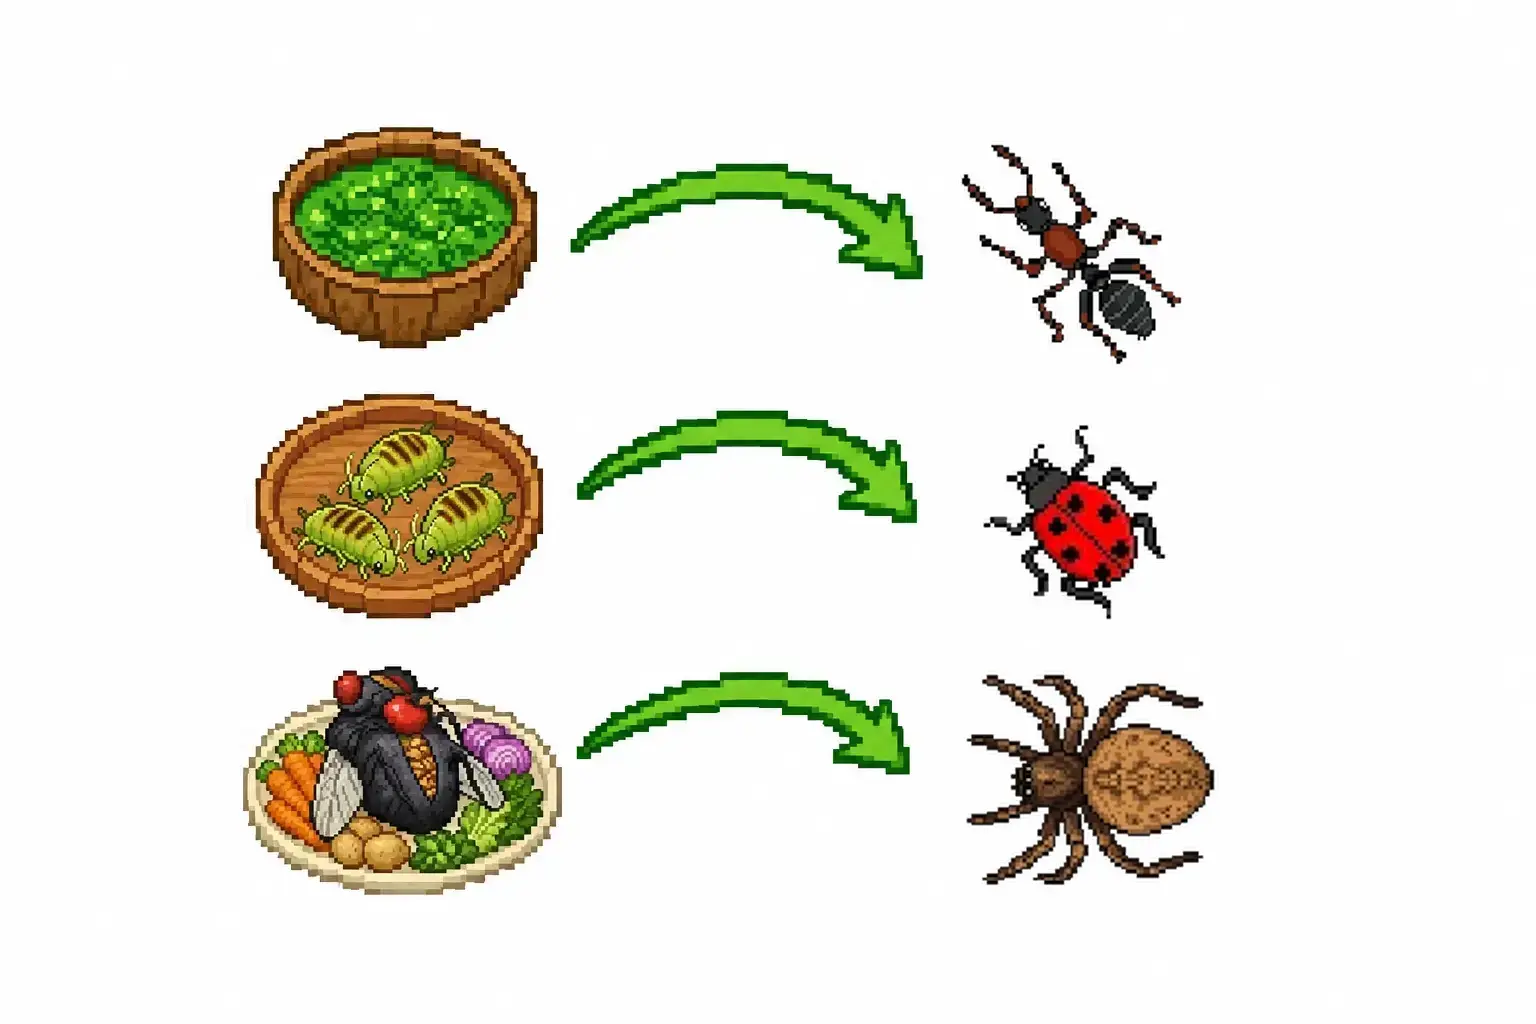
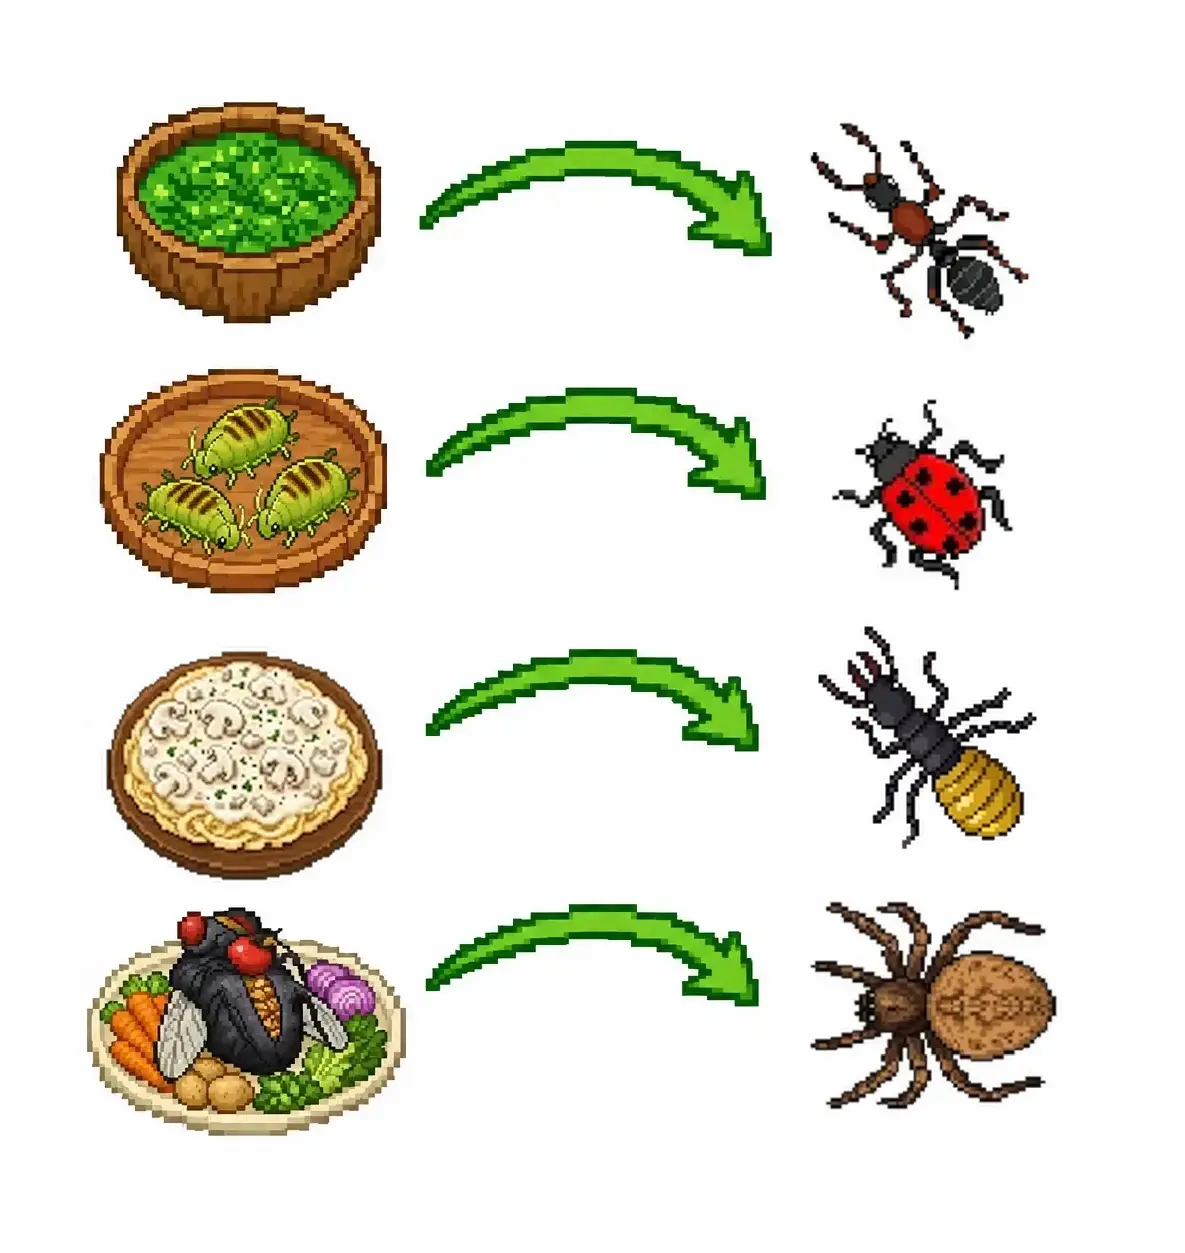
feat: more dialoges, mushrooms and first termite

diff --git a/apps/frontend/src/hooks/useBoardStateDialogues.ts b/apps/frontend/src/hooks/useBoardStateDialogues.ts
@@ -4,7 +4,9 @@ import { findAnthillOnBoard } from "../components/helpers/dialogues/findAnthillO
 import { findBrickOnBoard } from "../components/helpers/dialogues/findBrickOnBoard";
 import { findBuiltAxeOnBoard } from "../components/helpers/dialogues/findBuiltAxeOnBoard";
 import { findBuiltBeetleHouseOnBoard } from "../components/helpers/dialogues/findBuiltBeetleHouseOnBoard";
+import { findBuiltFarmOnBoard } from "../components/helpers/dialogues/findBuiltFarmOnBoard";
 import { findBuiltKitchenOnBoard } from "../components/helpers/dialogues/findBuiltKitchenOnBoard";
+import { findBuiltMushroomsFieldOnBoard } from "../components/helpers/dialogues/findBuiltMushroomsFieldOnBoard";
 import { findBuiltTavernOnBoard } from "../components/helpers/dialogues/findBuiltTavernOnBoard";
 import { findBuiltWoodcutterOnBoard } from "../components/helpers/dialogues/findBuiltWoodcutterOnBoard";
 import { findBuiltWorkshopOnBoard } from "../components/helpers/dialogues/findBuiltWorkshopOnBoard";
@@ -19,6 +21,8 @@ import { hasClayOnBoard } from "../components/helpers/dialogues/hasClayOnBoard";
 import { hasGreenflyOnBoard } from "../components/helpers/dialogues/hasGreenflyOnBoard";
 import { hasIronOreOnBoard } from "../components/helpers/dialogues/hasIronOreOnBoard";
 import { hasLeafAndBeetleOnBoard } from "../components/helpers/dialogues/hasLeafAndBeetleOnBoard";
+import { hasMushroomOnBoard } from "../components/helpers/dialogues/hasMushroomOnBoard";
+import { hasTermiteOnBoard } from "../components/helpers/dialogues/hasTermiteOnBoard";
 import { isStartingBoardState } from "../components/helpers/dialogues/isStartingBoardState";
 import { Dialogue } from "../types/dialogue";
 import { GridEntity } from "../types/gridEntity";
@@ -27,6 +31,7 @@ import {
   buildBeetleHouseDialogue,
   buildFarmDialogue,
   buildKitchenDialogue,
+  buildMushroomFieldDialogue,
   buildStonemasonDialogue,
   buildTavernDialogue,
   buildWoodcutterDialogue,
@@ -39,6 +44,9 @@ import {
   firstGreenflyDialogue,
   firstIronOreDialogue,
   firstLadybugDialogue,
+  firstMushroomDialogue,
+  firstTermiteDialogue,
+  mushroomFieldDialogue,
   stonemasonUpgradedDialogue,
   welcomeDialogue,
   woodcutterUpgradedDialogue,
@@ -157,6 +165,24 @@ export function useBoardStateDialogues({
 
     const upgradedWoodcutter = findUpgradedWoodcutterOnBoard(entities);
     if (upgradedWoodcutter && showDialogueIfNotVisited(woodcutterUpgradedDialogue())) {
+      return;
+    }
+
+    const farm = findBuiltFarmOnBoard(entities);
+    if (farm && showDialogueIfNotVisited(buildMushroomFieldDialogue(farm.id))) {
+      return;
+    }
+
+    const mushroomsField = findBuiltMushroomsFieldOnBoard(entities);
+    if (mushroomsField && showDialogueIfNotVisited(mushroomFieldDialogue())) {
+      return;
+    }
+
+    if (hasMushroomOnBoard(entities) && showDialogueIfNotVisited(firstMushroomDialogue())) {
+      return;
+    }
+
+    if (hasTermiteOnBoard(entities) && showDialogueIfNotVisited(firstTermiteDialogue())) {
       return;
     }
   }, [allEntitiesLoaded, entities, showDialogueIfNotVisited, activeDialogue]);

diff --git a/apps/frontend/src/utils/dialogue.ts b/apps/frontend/src/utils/dialogue.ts
@@ -14,6 +14,7 @@ import { BricksProductionInfographic } from "../components/dialogue/BricksProduc
 import { CookingListInfographic } from "../components/dialogue/CookingListInfographic";
 import { HungryBugInfographic } from "../components/dialogue/HungryBugInfographic";
 import { LeafToBeetleInfographic } from "../components/dialogue/LeafToBeetleInfographic";
+import { PaperToMushroomInfographic } from "../components/dialogue/PaperToMushroomInfographic";
 import { ProcessIronInfographic } from "../components/dialogue/ProcessIronInfographic";
 import { StackingItemsInfographic } from "../components/dialogue/StackingItemsInfographic";
 import { StickToHoleInfographic } from "../components/dialogue/StickToHoleInfographic";
@@ -301,6 +302,40 @@ export function woodcutterUpgradedDialogue(): Dialogue {
   };
 }
 
+export function buildMushroomFieldDialogue(farmId: string): Dialogue {
+  return {
+    id: "buildMushroomField",
+    text: "Excellent! Thanks to this farm, we can produce our own types of food. Click on the farm and build a mushroom field.",
+    bugType: "ladybug",
+    cursorEntityId: farmId,
+  };
+}
+
+export function mushroomFieldDialogue(): Dialogue {
+  return {
+    id: "mushroomField",
+    text: "The mushrooms will grow on this field if you fertilize it with scraps of paper.",
+    bugType: "ladybug",
+    infographic: createElement(PaperToMushroomInfographic),
+  };
+}
+
+export function firstMushroomDialogue(): Dialogue {
+  return {
+    id: "firstMushroom",
+    text: "Ah, finally! The mushrooms are loved by termites. Let's attract some of them. You must upgrade the kitchen first in order to prepare mushroom sauce.",
+    bugType: "ladybug",
+  };
+}
+
+export function firstTermiteDialogue(): Dialogue {
+  return {
+    id: "firstTermite",
+    text: "Good morning, sir! I've heard about this place and was eager to see it. This town is so lovely and there is so much work to be done here. Let me suggest that termites are much better in tunneling than ants. If we could... improve their anthill into termite mound, we would be able to dig deeper making this land more fertile and provide better items for you. Just drop three of us into the anthill and that should do it.",
+    bugType: "termite",
+  };
+}
+
 export function cannotBuildDialogue(reason: CannotBuildReason): Dialogue {
   switch (reason) {
     case "noSpace":
@@ -344,6 +379,8 @@ export function structureClickDialogue(structure: Structure): Dialogue | null {
       return tavernListDialogue();
     case "smelter":
       return smelterDialogue();
+    case "mushrooms_field":
+      return mushroomFieldDialogue();
     default:
       return null;
   }

diff --git a/apps/frontend/src/components/helpers/dialogues/findBuiltFarmOnBoard.ts b/apps/frontend/src/components/helpers/dialogues/findBuiltFarmOnBoard.ts
@@ -1,0 +1,15 @@
+import { isStructureBuilt, isStructurePowered } from "@happy-little-bug-town/utils";
+
+import { GridEntity } from "../../../types/gridEntity";
+import { Structure } from "../../../types/structure";
+import { isStructure } from "../typeGuards";
+
+export function findBuiltFarmOnBoard(entities: GridEntity[]): Structure | undefined {
+  return entities.find(
+    (entity): entity is Structure =>
+      isStructure(entity) &&
+      entity.structureType === "farm" &&
+      isStructureBuilt(entity) &&
+      isStructurePowered(entity),
+  );
+}

diff --git a/apps/frontend/src/components/helpers/dialogues/findBuiltMushroomsFieldOnBoard.ts b/apps/frontend/src/components/helpers/dialogues/findBuiltMushroomsFieldOnBoard.ts
@@ -1,0 +1,12 @@
+import { isStructureBuilt } from "@happy-little-bug-town/utils";
+
+import { GridEntity } from "../../../types/gridEntity";
+import { Structure } from "../../../types/structure";
+import { isStructure } from "../typeGuards";
+
+export function findBuiltMushroomsFieldOnBoard(entities: GridEntity[]): Structure | undefined {
+  return entities.find(
+    (entity): entity is Structure =>
+      isStructure(entity) && entity.structureType === "mushrooms_field" && isStructureBuilt(entity),
+  );
+}

diff --git a/apps/frontend/src/components/dialogue/PaperToMushroomInfographic.tsx b/apps/frontend/src/components/dialogue/PaperToMushroomInfographic.tsx
@@ -1,0 +1,16 @@
+import Image from "next/image";
+
+export function PaperToMushroomInfographic() {
+  return (
+    <figure className="m-0 w-[48cqi]">
+      <Image
+        src="/dialogues/paper-to-mushroom.webp"
+        alt="Fertilize the mushroom field with scraps of paper"
+        width={1536}
+        height={1024}
+        sizes="48cqi"
+        className="h-auto w-full"
+      />
+    </figure>
+  );
+}

diff --git a/apps/utils/src/typeGuards/dialogue.ts b/apps/utils/src/typeGuards/dialogue.ts
@@ -24,5 +24,9 @@ export function isOnceDialogueId(value: unknown): value is OnceDialogueId {
     "buildFarm",
     "stonemasonUpgraded",
     "woodcutterUpgraded",
+    "buildMushroomField",
+    "mushroomField",
+    "firstMushroom",
+    "firstTermite",
   ].includes(value as string);
 }

diff --git a/apps/frontend/src/components/helpers/dialogues/hasMushroomOnBoard.ts b/apps/frontend/src/components/helpers/dialogues/hasMushroomOnBoard.ts
@@ -1,0 +1,6 @@
+import { GridEntity } from "../../../types/gridEntity";
+import { isItem } from "../typeGuards";
+
+export function hasMushroomOnBoard(entities: GridEntity[]): boolean {
+  return entities.some((entity) => isItem(entity) && entity.itemType === "mushroom");
+}

diff --git a/apps/frontend/src/components/helpers/dialogues/hasTermiteOnBoard.ts b/apps/frontend/src/components/helpers/dialogues/hasTermiteOnBoard.ts
@@ -1,0 +1,6 @@
+import { GridEntity } from "../../../types/gridEntity";
+import { isBug } from "../typeGuards";
+
+export function hasTermiteOnBoard(entities: GridEntity[]): boolean {
+  return entities.some((entity) => isBug(entity) && entity.bugType === "termite");
+}

diff --git a/apps/utils/src/types/dialogue.ts b/apps/utils/src/types/dialogue.ts
@@ -20,4 +20,8 @@ export type OnceDialogueId =
   | "firstLadybug"
   | "buildFarm"
   | "stonemasonUpgraded"
-  | "woodcutterUpgraded";
+  | "woodcutterUpgraded"
+  | "buildMushroomField"
+  | "mushroomField"
+  | "firstMushroom"
+  | "firstTermite";
